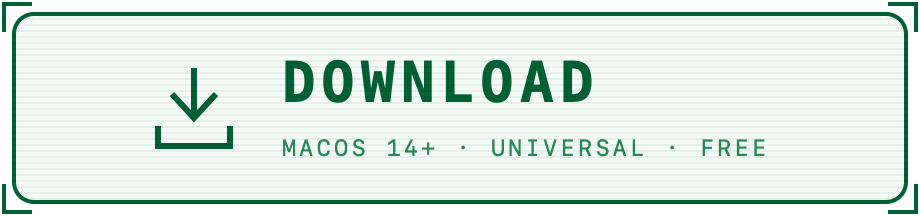
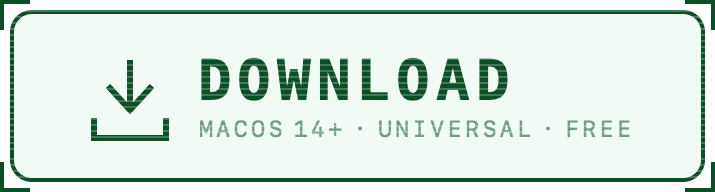
Use the supplied download button and derive the light one from it
The light variant is the same pixels remapped by luminance, so the geometry,
the antialiasing and the transparent cutouts match the dark one exactly rather
than approximately. Its plate is flattened, since scanlines that are invisible
on black read as stripes on a pale background.

The generator goes: the button is a supplied asset now, and a tool that draws
something else would only mislead.

Changed region(s): [[0.0, 0.0, 1.0, 1.0], [0.2769, 0.2812, 0.7077, 0.5312], [0.1231, 0.3125, 0.8923, 0.75]]

diff --git a/README.md b/README.md
@@ -21,8 +21,8 @@ Except half of it is real. The process table, CPU load, memory pressure, disk us
 
 <a href="https://github.com/PerfectoWeb/Gibson/releases/latest/download/Gibson.saver.zip">
   <picture>
-    <source media="(prefers-color-scheme: dark)" srcset="docs/images/download-dark.png">
-    <img src="docs/images/download-light.png" alt="Download Gibson for macOS" width="420">
+    <source media="(prefers-color-scheme: dark)" srcset="docs/images/download-dark.webp">
+    <img src="docs/images/download-light.png" alt="Download Gibson for macOS" width="280">
   </picture>
 </a>
 

diff --git a/CHANGELOG.md b/CHANGELOG.md
@@ -11,7 +11,6 @@ All notable changes are recorded here. The format follows
 - A download button at the top of the README, in a dark and a light variant so
   GitHub serves whichever matches the reader's theme. It points at the permanent
   link for the newest release, so it never has to be updated by hand.
-  `make button` redraws both.
 
 ## [1.0.2] - 2026-08-10
 
